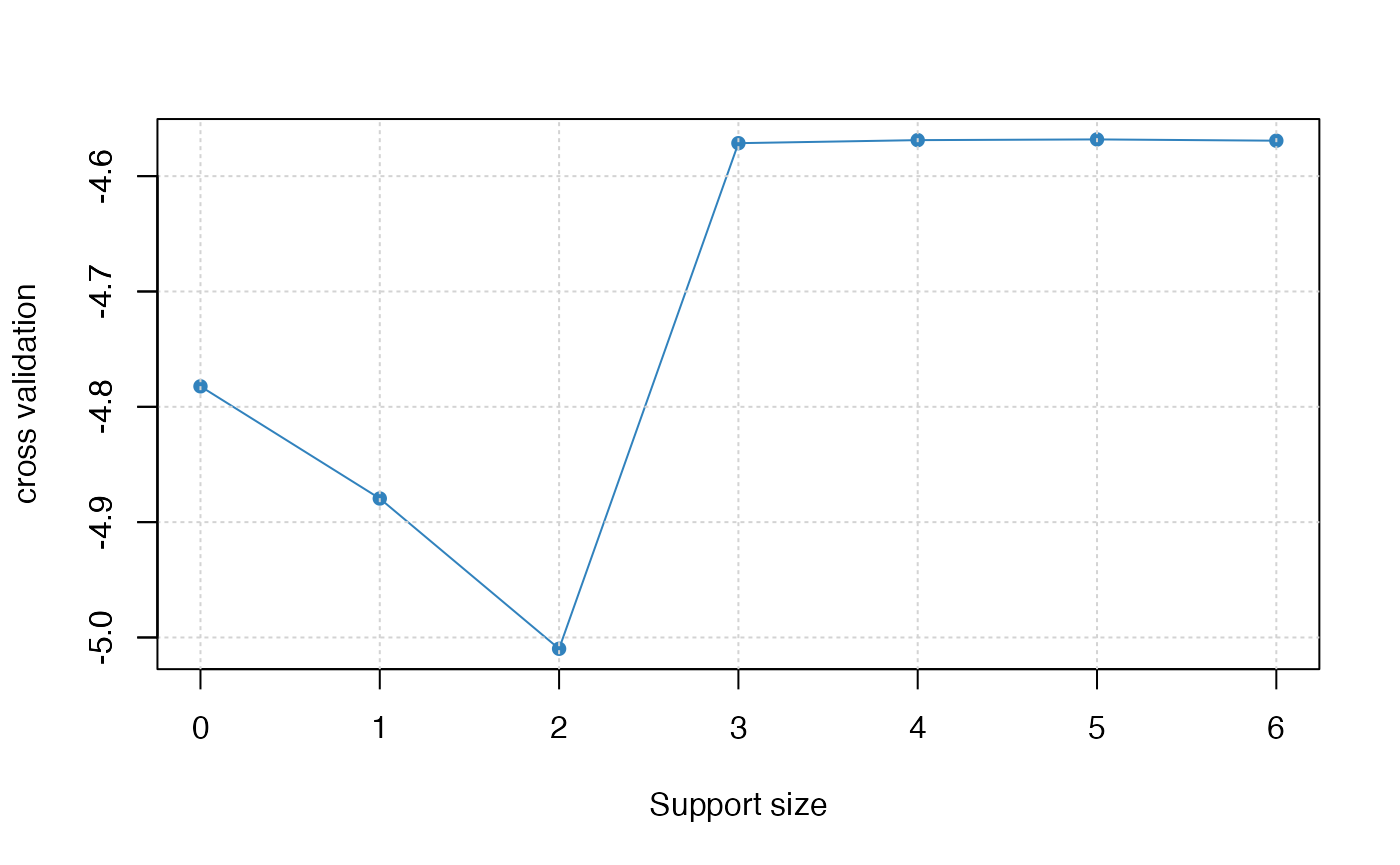
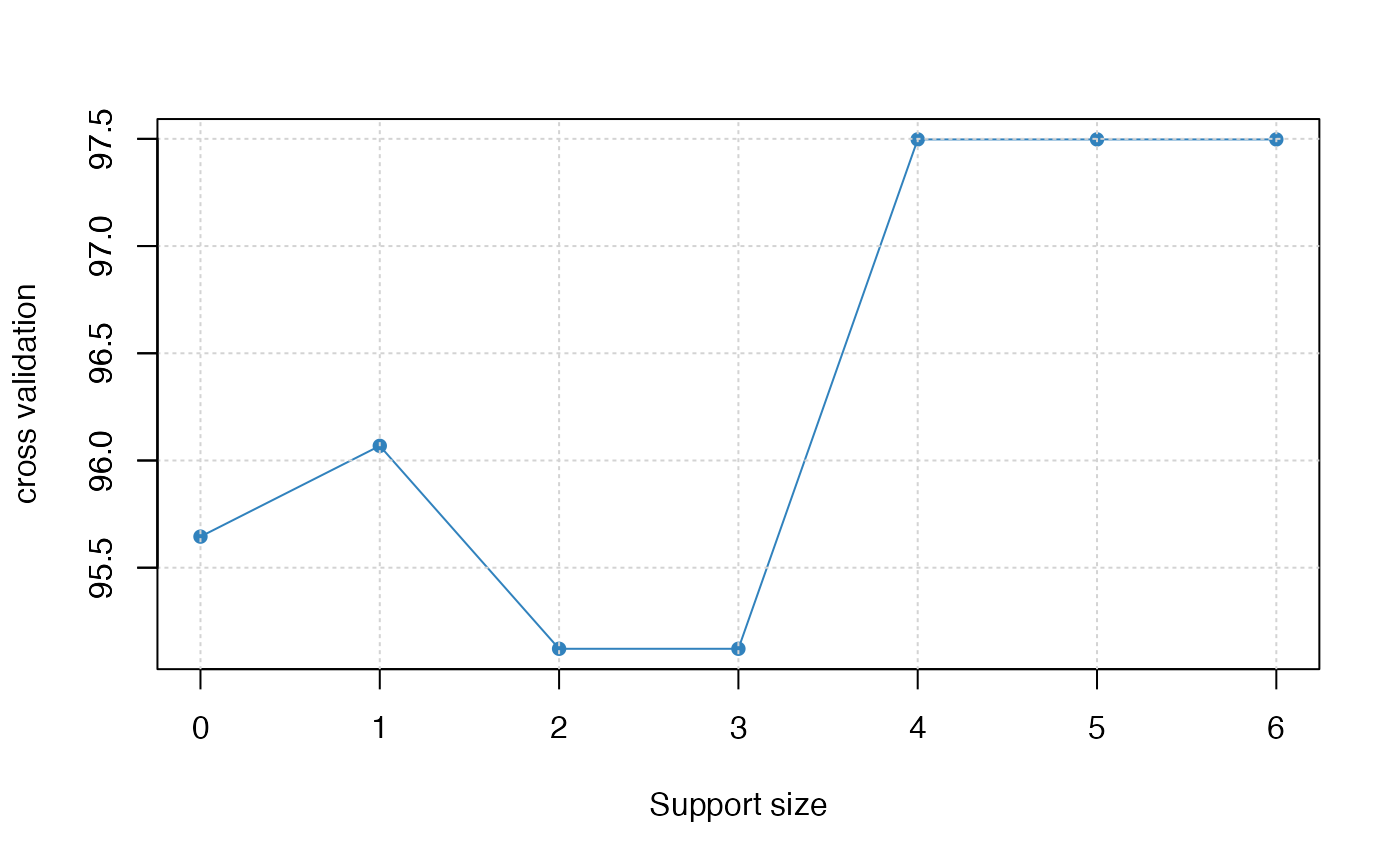
Built site for abess: 0.4.6@dcb1b34

diff --git a/articles/v04-PoissonGammaReg.html b/articles/v04-PoissonGammaReg.html
@@ -302,26 +302,26 @@ y_i \sim Gamma(\mu_i, \alpha),
 <span><span class="co"># draw the estimated coefficients on all candidate support size</span></span>
 <span><span class="fu"><a href="https://rdrr.io/r/stats/coef.html" class="external-link">coef</a></span><span class="op">(</span><span class="va">abess_fit</span><span class="op">)</span></span></code></pre></div>
 <pre><code><span><span class="co">## 7 x 7 sparse Matrix of class "dgCMatrix"</span></span>
-<span><span class="co">##                    0        1         2         3         4         5</span></span>
-<span><span class="co">## (intercept) 342.3786 433.5399 449.27779 453.62074 454.59730 456.83734</span></span>
-<span><span class="co">## age           .        .        .         .         .       -12.70808</span></span>
-<span><span class="co">## sex           .        .        .         .       -17.01056 -15.27726</span></span>
-<span><span class="co">## job           .        .      105.29506  84.15002  85.32617  87.44927</span></span>
-<span><span class="co">## education     .        .        .        72.27035  71.99302  71.34324</span></span>
-<span><span class="co">## region        .      132.5486  72.92359  54.95904  58.82782  61.00712</span></span>
-<span><span class="co">## marriage      .        .        .         .         .         .      </span></span>
+<span><span class="co">##                    0        1         2         3           4           5</span></span>
+<span><span class="co">## (intercept) 342.3786 369.6236 1836.3265 1611.5807 1035.422789 1395.206233</span></span>
+<span><span class="co">## age           .        .         .         .        99.733557   77.398174</span></span>
+<span><span class="co">## sex           .        .         .         .         .           .       </span></span>
+<span><span class="co">## job           .        .       379.8586  272.5693  229.485859  213.727191</span></span>
+<span><span class="co">## education     .      131.4455    .       222.6842  236.290361  211.518446</span></span>
+<span><span class="co">## region        .        .       357.8555  250.1849    .         204.228179</span></span>
+<span><span class="co">## marriage      .        .         .         .         7.401491    8.075346</span></span>
 <span><span class="co">##                      6</span></span>
-<span><span class="co">## (intercept) 456.922083</span></span>
-<span><span class="co">## age         -12.686381</span></span>
-<span><span class="co">## sex         -15.130838</span></span>
-<span><span class="co">## job          87.427637</span></span>
-<span><span class="co">## education    71.295781</span></span>
-<span><span class="co">## region       61.017459</span></span>
-<span><span class="co">## marriage      0.878245</span></span></code></pre>
+<span><span class="co">## (intercept) 344.163895</span></span>
+<span><span class="co">## age          77.398174</span></span>
+<span><span class="co">## sex          70.866729</span></span>
+<span><span class="co">## job         213.727191</span></span>
+<span><span class="co">## education   211.518446</span></span>
+<span><span class="co">## region      204.228179</span></span>
+<span><span class="co">## marriage      8.075346</span></span></code></pre>
 <div class="sourceCode" id="cb30"><pre class="downlit sourceCode r">
 <code class="sourceCode R"><span><span class="co"># get the deviance of the estimated model on all candidate support size</span></span>
 <span><span class="fu"><a href="https://rdrr.io/r/stats/deviance.html" class="external-link">deviance</a></span><span class="op">(</span><span class="va">abess_fit</span><span class="op">)</span></span></code></pre></div>
-<pre><code><span><span class="co">## [1] -4.835917 -4.979948 -5.041093 -5.058884 -5.059648 -5.060127 -5.060129</span></span></code></pre>
+<pre><code><span><span class="co">## [1] 483.5917 491.3247 333.4061 373.9097 443.4298 404.4059      NaN</span></span></code></pre>
 <div class="sourceCode" id="cb32"><pre class="downlit sourceCode r">
 <code class="sourceCode R"><span><span class="co"># print the fitted model</span></span>
 <span><span class="fu"><a href="https://rdrr.io/r/base/print.html" class="external-link">print</a></span><span class="op">(</span><span class="va">abess_fit</span><span class="op">)</span></span></code></pre></div>
@@ -329,24 +329,24 @@ y_i \sim Gamma(\mu_i, \alpha),
 <span><span class="co">## abess.formula(formula = count ~ ., data = complain, family = "gamma", </span></span>
 <span><span class="co">##     tune.type = "cv")</span></span>
 <span><span class="co">## </span></span>
-<span><span class="co">##   support.size       dev        cv</span></span>
-<span><span class="co">## 1            0 -4.835917 -4.782249</span></span>
-<span><span class="co">## 2            1 -4.979948 -4.879499</span></span>
-<span><span class="co">## 3            2 -5.041093 -5.009807</span></span>
-<span><span class="co">## 4            3 -5.058884 -4.571414</span></span>
-<span><span class="co">## 5            4 -5.059648 -4.568769</span></span>
-<span><span class="co">## 6            5 -5.060127 -4.568148</span></span>
-<span><span class="co">## 7            6 -5.060129 -4.569258</span></span></code></pre>
+<span><span class="co">##   support.size      dev       cv</span></span>
+<span><span class="co">## 1            0 483.5917 95.64499</span></span>
+<span><span class="co">## 2            1 491.3247 96.06830</span></span>
+<span><span class="co">## 3            2 333.4061 95.12191</span></span>
+<span><span class="co">## 4            3 373.9097 95.12191</span></span>
+<span><span class="co">## 5            4 443.4298 97.49735</span></span>
+<span><span class="co">## 6            5 404.4059 97.49735</span></span>
+<span><span class="co">## 7            6      NaN 97.49735</span></span></code></pre>
 <div class="sourceCode" id="cb34"><pre class="downlit sourceCode r">
 <code class="sourceCode R"><span><span class="co"># predict results for given support sizes</span></span>
 <span><span class="fu"><a href="https://rdrr.io/r/utils/head.html" class="external-link">head</a></span><span class="op">(</span><span class="fu"><a href="https://rdrr.io/r/stats/predict.html" class="external-link">predict</a></span><span class="op">(</span><span class="va">abess_fit</span>, newx <span class="op">=</span> <span class="va">dat</span><span class="op">$</span><span class="va">x</span>, support.size <span class="op">=</span> <span class="fu"><a href="https://rdrr.io/r/base/c.html" class="external-link">c</a></span><span class="op">(</span><span class="fl">3</span>, <span class="fl">4</span><span class="op">)</span><span class="op">)</span><span class="op">)</span></span></code></pre></div>
-<pre><code><span><span class="co">##             3        4</span></span>
-<span><span class="co">## [1,] 611.7083 627.6281</span></span>
-<span><span class="co">## [2,] 624.2342 634.1050</span></span>
-<span><span class="co">## [3,] 696.4613 711.9196</span></span>
-<span><span class="co">## [4,] 376.5679 373.0613</span></span>
-<span><span class="co">## [5,] 357.9886 365.3432</span></span>
-<span><span class="co">## [6,] 752.4414 724.4203</span></span></code></pre>
+<pre><code><span><span class="co">##             3         4</span></span>
+<span><span class="co">## [1,] 2190.987 1278.6349</span></span>
+<span><span class="co">## [2,] 2312.963 1191.6470</span></span>
+<span><span class="co">## [3,] 2332.161 1773.2325</span></span>
+<span><span class="co">## [4,] 1338.167 1028.0222</span></span>
+<span><span class="co">## [5,] 1252.915  942.0544</span></span>
+<span><span class="co">## [6,] 2535.129 1895.8916</span></span></code></pre>
 <div class="sourceCode" id="cb36"><pre class="downlit sourceCode r">
 <code class="sourceCode R"><span><span class="fu"><a href="https://rdrr.io/r/graphics/plot.default.html" class="external-link">plot</a></span><span class="op">(</span><span class="va">abess_fit</span>, label <span class="op">=</span> <span class="cn">TRUE</span><span class="op">)</span></span></code></pre></div>
 <p><img src="v04-PoissonGammaReg_files/figure-html/unnamed-chunk-9-1.png" width="700"></p>
@@ -366,25 +366,25 @@ y_i \sim Gamma(\mu_i, \alpha),
 <span><span class="co">##   .. ..@ Dimnames:List of 2</span></span>
 <span><span class="co">##   .. .. ..$ : chr [1:6] "age" "sex" "job" "education" ...</span></span>
 <span><span class="co">##   .. .. ..$ : chr "3"</span></span>
-<span><span class="co">##   .. ..@ x       : num [1:3] 84.2 72.3 55</span></span>
+<span><span class="co">##   .. ..@ x       : num [1:3] 273 223 250</span></span>
 <span><span class="co">##   .. ..@ factors : list()</span></span>
-<span><span class="co">##  $ intercept   : num 454</span></span>
+<span><span class="co">##  $ intercept   : num 1612</span></span>
 <span><span class="co">##  $ support.size: num 3</span></span>
 <span><span class="co">##  $ support.vars: chr [1:3] "job" "education" "region"</span></span>
-<span><span class="co">##  $ support.beta: num [1:3] 84.2 72.3 55</span></span>
-<span><span class="co">##  $ dev         : num -5.06</span></span>
-<span><span class="co">##  $ tune.value  : num -4.57</span></span></code></pre>
+<span><span class="co">##  $ support.beta: num [1:3] 273 223 250</span></span>
+<span><span class="co">##  $ dev         : num 374</span></span>
+<span><span class="co">##  $ tune.value  : num 95.1</span></span></code></pre>
 <div class="sourceCode" id="cb40"><pre class="downlit sourceCode r">
 <code class="sourceCode R"><span><span class="co"># estimated coefficients</span></span>
 <span><span class="va">best.model</span><span class="op">$</span><span class="va">beta</span></span></code></pre></div>
 <pre><code><span><span class="co">## 6 x 1 sparse Matrix of class "dgCMatrix"</span></span>
 <span><span class="co">##                  3</span></span>
-<span><span class="co">## age        .      </span></span>
-<span><span class="co">## sex        .      </span></span>
-<span><span class="co">## job       84.15002</span></span>
-<span><span class="co">## education 72.27035</span></span>
-<span><span class="co">## region    54.95904</span></span>
-<span><span class="co">## marriage   .</span></span></code></pre>
+<span><span class="co">## age         .     </span></span>
+<span><span class="co">## sex         .     </span></span>
+<span><span class="co">## job       272.5693</span></span>
+<span><span class="co">## education 222.6842</span></span>
+<span><span class="co">## region    250.1849</span></span>
+<span><span class="co">## marriage    .</span></span></code></pre>
 </div>
   </div>
 

diff --git a/articles/v09-fasterSetting.html b/articles/v09-fasterSetting.html
@@ -176,13 +176,13 @@
 <span><span class="va">x</span> <span class="op">&lt;-</span> <span class="fu"><a href="https://rdrr.io/pkg/Matrix/man/Matrix.html" class="external-link">Matrix</a></span><span class="op">(</span><span class="va">x</span><span class="op">)</span></span>
 <span><span class="fu"><a href="https://rdrr.io/r/utils/head.html" class="external-link">head</a></span><span class="op">(</span><span class="va">x</span><span class="op">[</span>, <span class="fl">1</span><span class="op">:</span><span class="fl">10</span><span class="op">]</span><span class="op">)</span></span></code></pre></div>
 <pre><code><span><span class="co">## 6 x 10 sparse Matrix of class "dgCMatrix"</span></span>
-<span><span class="co">##                                                 </span></span>
-<span><span class="co">## [1,] .  .        .  .        . . . 0.3838615 . .</span></span>
-<span><span class="co">## [2,] .  .        .  .        . . . .         . .</span></span>
-<span><span class="co">## [3,] .  .        .  .        . . . .         . .</span></span>
-<span><span class="co">## [4,] .  .        . -1.681055 . . . 0.6388219 . .</span></span>
-<span><span class="co">## [5,] .  .        .  .        . . . .         . .</span></span>
-<span><span class="co">## [6,] . -1.579548 .  .        . . . .         . .</span></span></code></pre>
+<span><span class="co">##                                                                          </span></span>
+<span><span class="co">## [1,] .          .         . -1.683958 2.1092599 . . .         . .        </span></span>
+<span><span class="co">## [2,] .          .         .  .        .         . . .         . .        </span></span>
+<span><span class="co">## [3,] 0.5084031  .         .  .        .         . . 0.7704097 . .        </span></span>
+<span><span class="co">## [4,] .         -0.8329129 .  .        .         . . 0.7114611 . 0.6413897</span></span>
+<span><span class="co">## [5,] .          .         .  .        0.2617041 . . .         . .        </span></span>
+<span><span class="co">## [6,] .         -0.7723550 .  .        .         . . .         . .</span></span></code></pre>
 <p>Then, we apply ABESS algorithm on Matrix <code>x</code> and record the runtime in <code>t1</code>:</p>
 <div class="sourceCode" id="cb5"><pre class="downlit sourceCode r">
 <code class="sourceCode R"><span><span class="kw"><a href="https://rdrr.io/r/base/library.html" class="external-link">library</a></span><span class="op">(</span><span class="va"><a href="https://github.com/abess-team/abess" class="external-link">abess</a></span><span class="op">)</span></span>
@@ -191,19 +191,19 @@
 <div class="sourceCode" id="cb6"><pre class="downlit sourceCode r">
 <code class="sourceCode R"><span><span class="va">x</span> <span class="op">&lt;-</span> <span class="fu"><a href="https://rdrr.io/r/base/matrix.html" class="external-link">as.matrix</a></span><span class="op">(</span><span class="va">x</span><span class="op">)</span></span>
 <span><span class="fu"><a href="https://rdrr.io/r/utils/head.html" class="external-link">head</a></span><span class="op">(</span><span class="va">x</span><span class="op">[</span>, <span class="fl">1</span><span class="op">:</span><span class="fl">6</span><span class="op">]</span><span class="op">)</span></span></code></pre></div>
-<pre><code><span><span class="co">##      [,1]      [,2] [,3]      [,4] [,5] [,6]</span></span>
-<span><span class="co">## [1,]    0  0.000000    0  0.000000    0    0</span></span>
-<span><span class="co">## [2,]    0  0.000000    0  0.000000    0    0</span></span>
-<span><span class="co">## [3,]    0  0.000000    0  0.000000    0    0</span></span>
-<span><span class="co">## [4,]    0  0.000000    0 -1.681055    0    0</span></span>
-<span><span class="co">## [5,]    0  0.000000    0  0.000000    0    0</span></span>
-<span><span class="co">## [6,]    0 -1.579548    0  0.000000    0    0</span></span></code></pre>
+<pre><code><span><span class="co">##           [,1]       [,2] [,3]      [,4]      [,5] [,6]</span></span>
+<span><span class="co">## [1,] 0.0000000  0.0000000    0 -1.683958 2.1092599    0</span></span>
+<span><span class="co">## [2,] 0.0000000  0.0000000    0  0.000000 0.0000000    0</span></span>
+<span><span class="co">## [3,] 0.5084031  0.0000000    0  0.000000 0.0000000    0</span></span>
+<span><span class="co">## [4,] 0.0000000 -0.8329129    0  0.000000 0.0000000    0</span></span>
+<span><span class="co">## [5,] 0.0000000  0.0000000    0  0.000000 0.2617041    0</span></span>
+<span><span class="co">## [6,] 0.0000000 -0.7723550    0  0.000000 0.0000000    0</span></span></code></pre>
 <div class="sourceCode" id="cb8"><pre class="downlit sourceCode r">
 <code class="sourceCode R"><span><span class="va">t2</span> <span class="op">&lt;-</span> <span class="fu"><a href="https://rdrr.io/r/base/system.time.html" class="external-link">system.time</a></span><span class="op">(</span><span class="va">abess_fit</span> <span class="op">&lt;-</span> <span class="fu"><a href="../reference/abess.html">abess</a></span><span class="op">(</span><span class="va">x</span>, <span class="va">y</span><span class="op">)</span><span class="op">)</span></span>
 <span><span class="fu"><a href="https://rdrr.io/r/base/cbind.html" class="external-link">rbind</a></span><span class="op">(</span><span class="va">t1</span>, <span class="va">t2</span><span class="op">)</span><span class="op">[</span>, <span class="fl">1</span><span class="op">:</span><span class="fl">3</span><span class="op">]</span></span></code></pre></div>
 <pre><code><span><span class="co">##    user.self sys.self elapsed</span></span>
-<span><span class="co">## t1     0.267    0.012   0.611</span></span>
-<span><span class="co">## t2     0.332    0.033   0.633</span></span></code></pre>
+<span><span class="co">## t1     0.270    0.012   0.283</span></span>
+<span><span class="co">## t2     0.329    0.040   0.372</span></span></code></pre>
 <p>From the comparison, we see that the time required by sparse matrix is visibly smaller, and thus, we suggest to assign a sparse matrix to <code>abess</code> when the input matrix have a lot of zero entries.</p>
 </div>
 <div class="section level2">
@@ -241,8 +241,8 @@
 <code class="sourceCode R"><span><span class="va">t2</span> <span class="op">&lt;-</span> <span class="fu"><a href="https://rdrr.io/r/base/system.time.html" class="external-link">system.time</a></span><span class="op">(</span><span class="va">abess_fit</span> <span class="op">&lt;-</span> <span class="fu"><a href="../reference/abess.html">abess</a></span><span class="op">(</span><span class="va">y</span> <span class="op">~</span> <span class="va">.</span>, data <span class="op">=</span> <span class="va">dat</span><span class="op">)</span><span class="op">)</span></span>
 <span><span class="fu"><a href="https://rdrr.io/r/base/cbind.html" class="external-link">rbind</a></span><span class="op">(</span><span class="va">t1</span>, <span class="va">t2</span><span class="op">)</span><span class="op">[</span>, <span class="fl">1</span><span class="op">:</span><span class="fl">3</span><span class="op">]</span></span></code></pre></div>
 <pre><code><span><span class="co">##    user.self sys.self elapsed</span></span>
-<span><span class="co">## t1     0.021    0.001   0.022</span></span>
-<span><span class="co">## t2     0.065    0.009   0.074</span></span></code></pre>
+<span><span class="co">## t1     0.024    0.001   0.027</span></span>
+<span><span class="co">## t2     0.069    0.013   0.100</span></span></code></pre>
 </div>
 <div class="section level2">
 <h2 id="early-stop">Early stop<a class="anchor" aria-label="anchor" href="#early-stop"></a>
@@ -320,8 +320,8 @@
 <code class="sourceCode R"><span><span class="va">t2</span> <span class="op">&lt;-</span> <span class="fu"><a href="https://rdrr.io/r/base/system.time.html" class="external-link">system.time</a></span><span class="op">(</span><span class="va">abess_fit</span> <span class="op">&lt;-</span> <span class="fu"><a href="../reference/abess.html">abess</a></span><span class="op">(</span><span class="va">y</span> <span class="op">~</span> <span class="va">.</span>, data <span class="op">=</span> <span class="va">dat</span><span class="op">)</span><span class="op">)</span></span>
 <span><span class="fu"><a href="https://rdrr.io/r/base/cbind.html" class="external-link">rbind</a></span><span class="op">(</span><span class="va">t1</span>, <span class="va">t2</span><span class="op">)</span><span class="op">[</span>, <span class="fl">1</span><span class="op">:</span><span class="fl">3</span><span class="op">]</span></span></code></pre></div>
 <pre><code><span><span class="co">##    user.self sys.self elapsed</span></span>
-<span><span class="co">## t1     0.065    0.008   0.074</span></span>
-<span><span class="co">## t2     0.063    0.007   0.070</span></span></code></pre>
+<span><span class="co">## t1     0.066    0.010   0.075</span></span>
+<span><span class="co">## t2     0.076    0.016   0.094</span></span></code></pre>
 <p>we can conclude that early-stopping brings fast computation and might maintain statistical guarantee.</p>
 </div>
   </div>

diff --git a/reference/abesspca.html b/reference/abesspca.html
@@ -398,10 +398,10 @@ because the meaning of these parameters are very similar.</p>
 <span class="r-out co"><span class="r-pr">#&gt;</span> abesspca(x = rob_cov, type = "gram")</span>
 <span class="r-out co"><span class="r-pr">#&gt;</span> </span>
 <span class="r-out co"><span class="r-pr">#&gt;</span>   PC support.size       ev       pev</span>
-<span class="r-out co"><span class="r-pr">#&gt;</span> 1  1            1 6514.199 0.9621234</span>
-<span class="r-out co"><span class="r-pr">#&gt;</span> 2  1            2 6543.734 0.9664856</span>
-<span class="r-out co"><span class="r-pr">#&gt;</span> 3  1            3 6564.430 0.9695424</span>
-<span class="r-out co"><span class="r-pr">#&gt;</span> 4  1            4 6577.630 0.9714920</span>
+<span class="r-out co"><span class="r-pr">#&gt;</span> 1  1            1 6599.190 0.9607749</span>
+<span class="r-out co"><span class="r-pr">#&gt;</span> 2  1            2 6637.228 0.9663128</span>
+<span class="r-out co"><span class="r-pr">#&gt;</span> 3  1            3 6673.129 0.9715398</span>
+<span class="r-out co"><span class="r-pr">#&gt;</span> 4  1            4 6684.791 0.9732376</span>
 <span class="r-in"><span></span></span>
 <span class="r-in"><span><span class="co">## K-component principal component analysis</span></span></span>
 <span class="r-in"><span><span class="va">pca_fit</span> <span class="op">&lt;-</span> <span class="fu">abesspca</span><span class="op">(</span><span class="va">USArrests</span>,</span></span>
